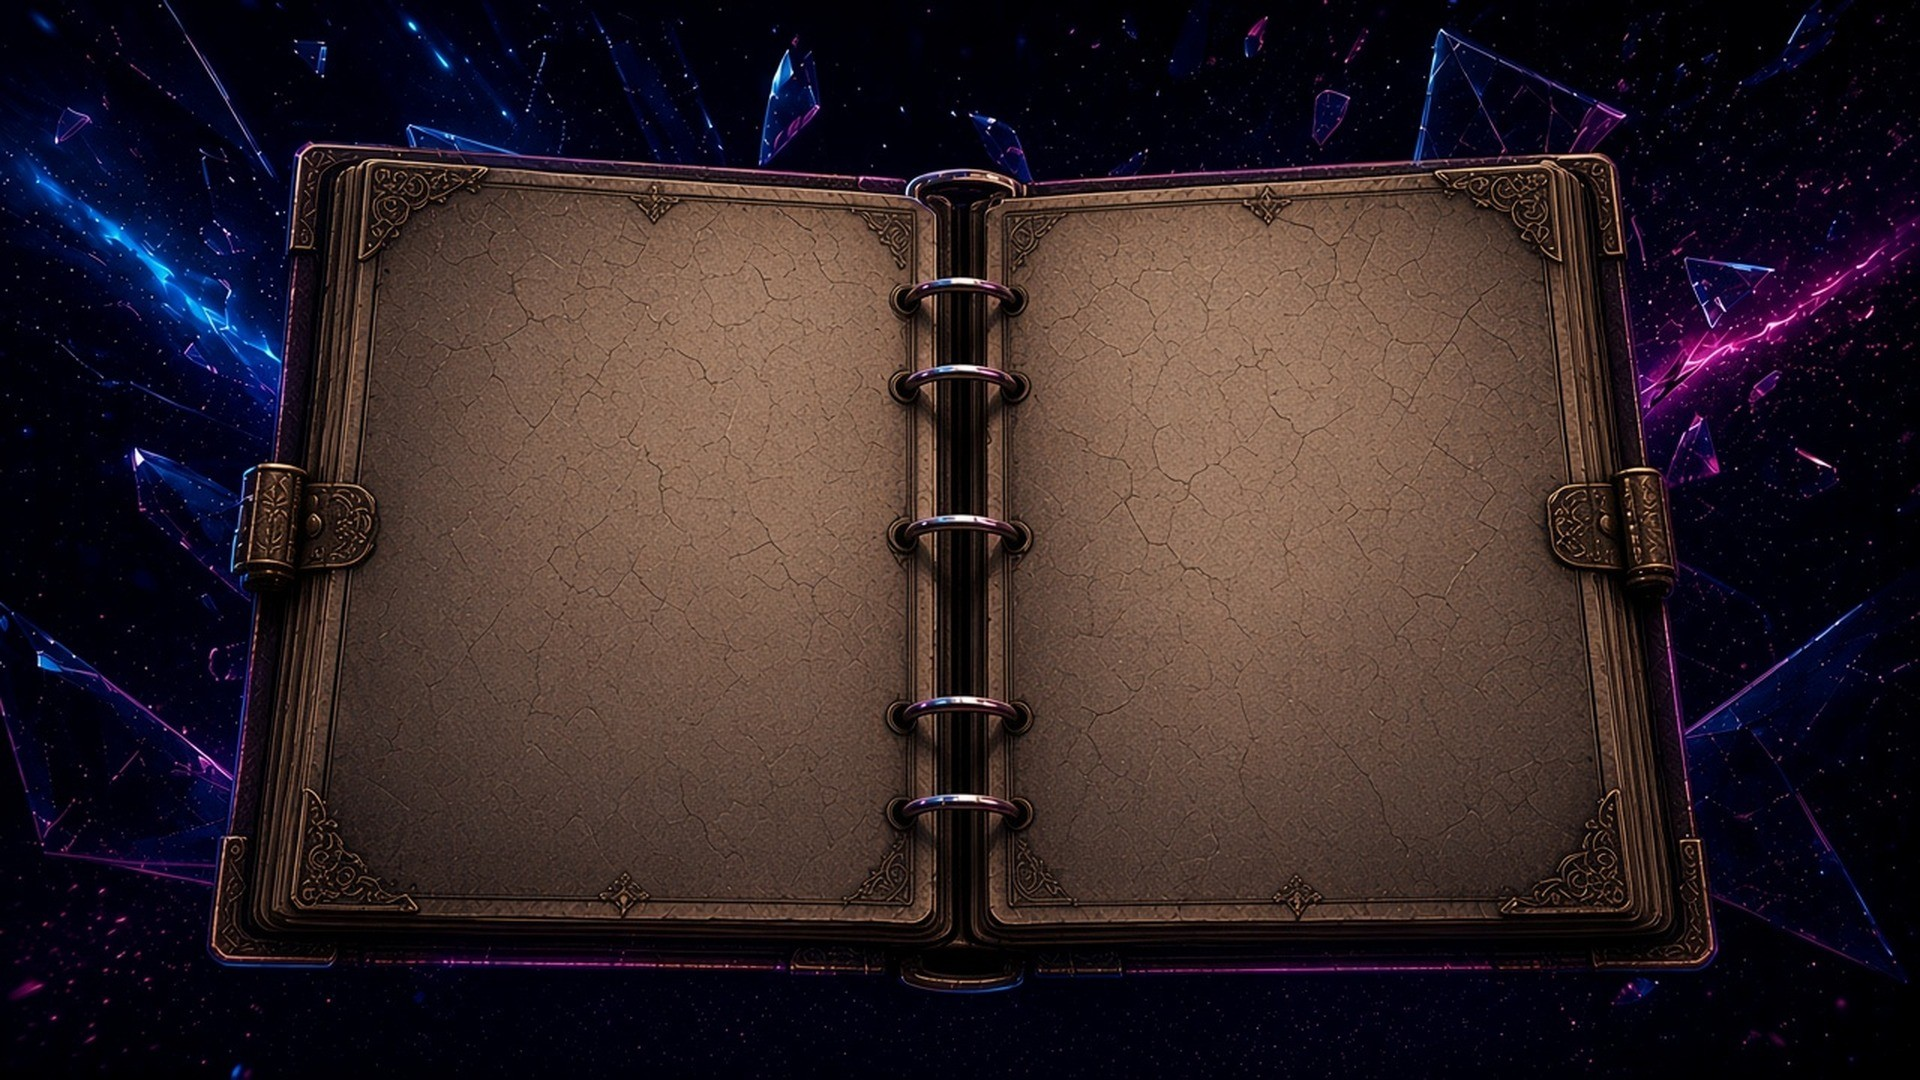
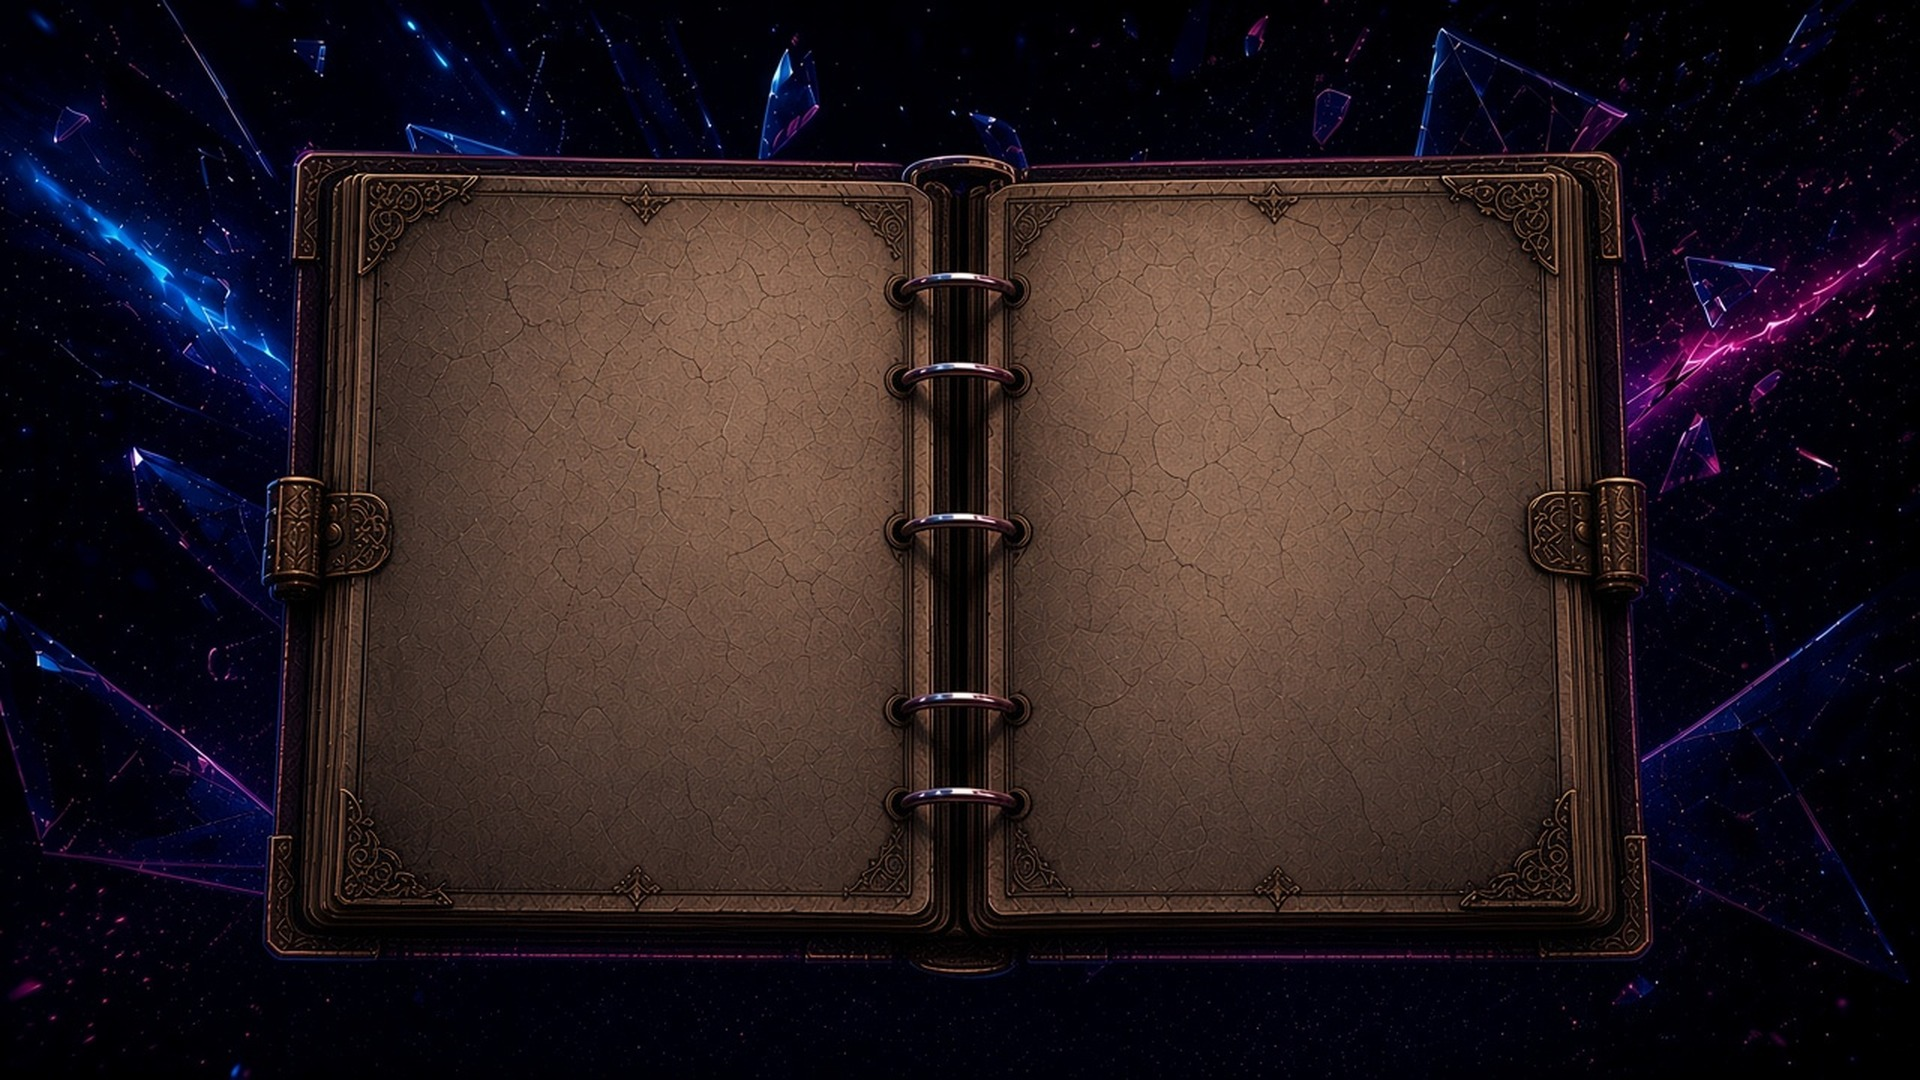
Binder: 正面見開き原画に差し替え・スクリムB撤去（薄inset影のみ）・inset再測 19.5% 55% 19.5% 21%

diff --git a/index.html b/index.html
@@ -166,9 +166,9 @@ button.card.pickable{cursor:pointer}
 :root{--pr-bg:#0d0f1a;--pr-cyan:#3ff0ff;--pr-mag:#ff5fc8;--pr-ultra:#2A3C9E;--hit-min:48px;--badge:2.9rem}
 .build:has(.binder){background:linear-gradient(rgba(13,15,26,.6),rgba(13,15,26,.85)),url(assets/ui/binder/binder-bg-cover-markspace-1920x1080.jpg) center/cover fixed}
 .binder{position:relative;display:block;width:min(98vw,calc(86dvh*16/9));aspect-ratio:16/9;padding:0;border-radius:6px;background:url(assets/ui/binder/binder-bg-spread-blank-1920x1080.jpg) center/cover no-repeat,var(--pr-bg);box-shadow:0 10px 40px rgba(0,0,0,.8)}
-.binder .bpage{position:absolute;inset:17.5% 51.5% 14.5% 21.5%;background:transparent;color:#2e1c0c;text-shadow:0 1px 0 rgb(240 225 195/.5);padding:1rem;border-radius:6px;box-shadow:inset 0 0 60px 16px rgb(60 40 20/.45);overflow:auto;display:flex;flex-direction:column;gap:8px}
-.binder .bright{inset:17.5% 21.5% 14.5% 51.5%}
-.binder .bpage::before{content:"";position:absolute;inset:0;border-radius:inherit;background:rgb(214 190 150/.42);mix-blend-mode:multiply;pointer-events:none;z-index:0}
+.binder .bpage{position:absolute;inset:19.5% 55% 19.5% 21%;background:transparent;color:#2e1c0c;text-shadow:0 1px 0 rgb(240 225 195/.5);padding:1rem;border-radius:6px;box-shadow:inset 0 0 28px 6px rgb(30 20 12/.22);overflow:auto;display:flex;flex-direction:column;gap:8px}
+.binder .bright{inset:19.5% 21% 19.5% 55%}
+.binder .bpage::before{content:none}
 .binder .bpage>*{position:relative;z-index:1}
 .binder .bspine{display:none}
 .bhead{border:0;margin:0 0 4px;padding:0;color:var(--pr-cyan);display:flex;align-items:center;justify-content:center;gap:8px}
